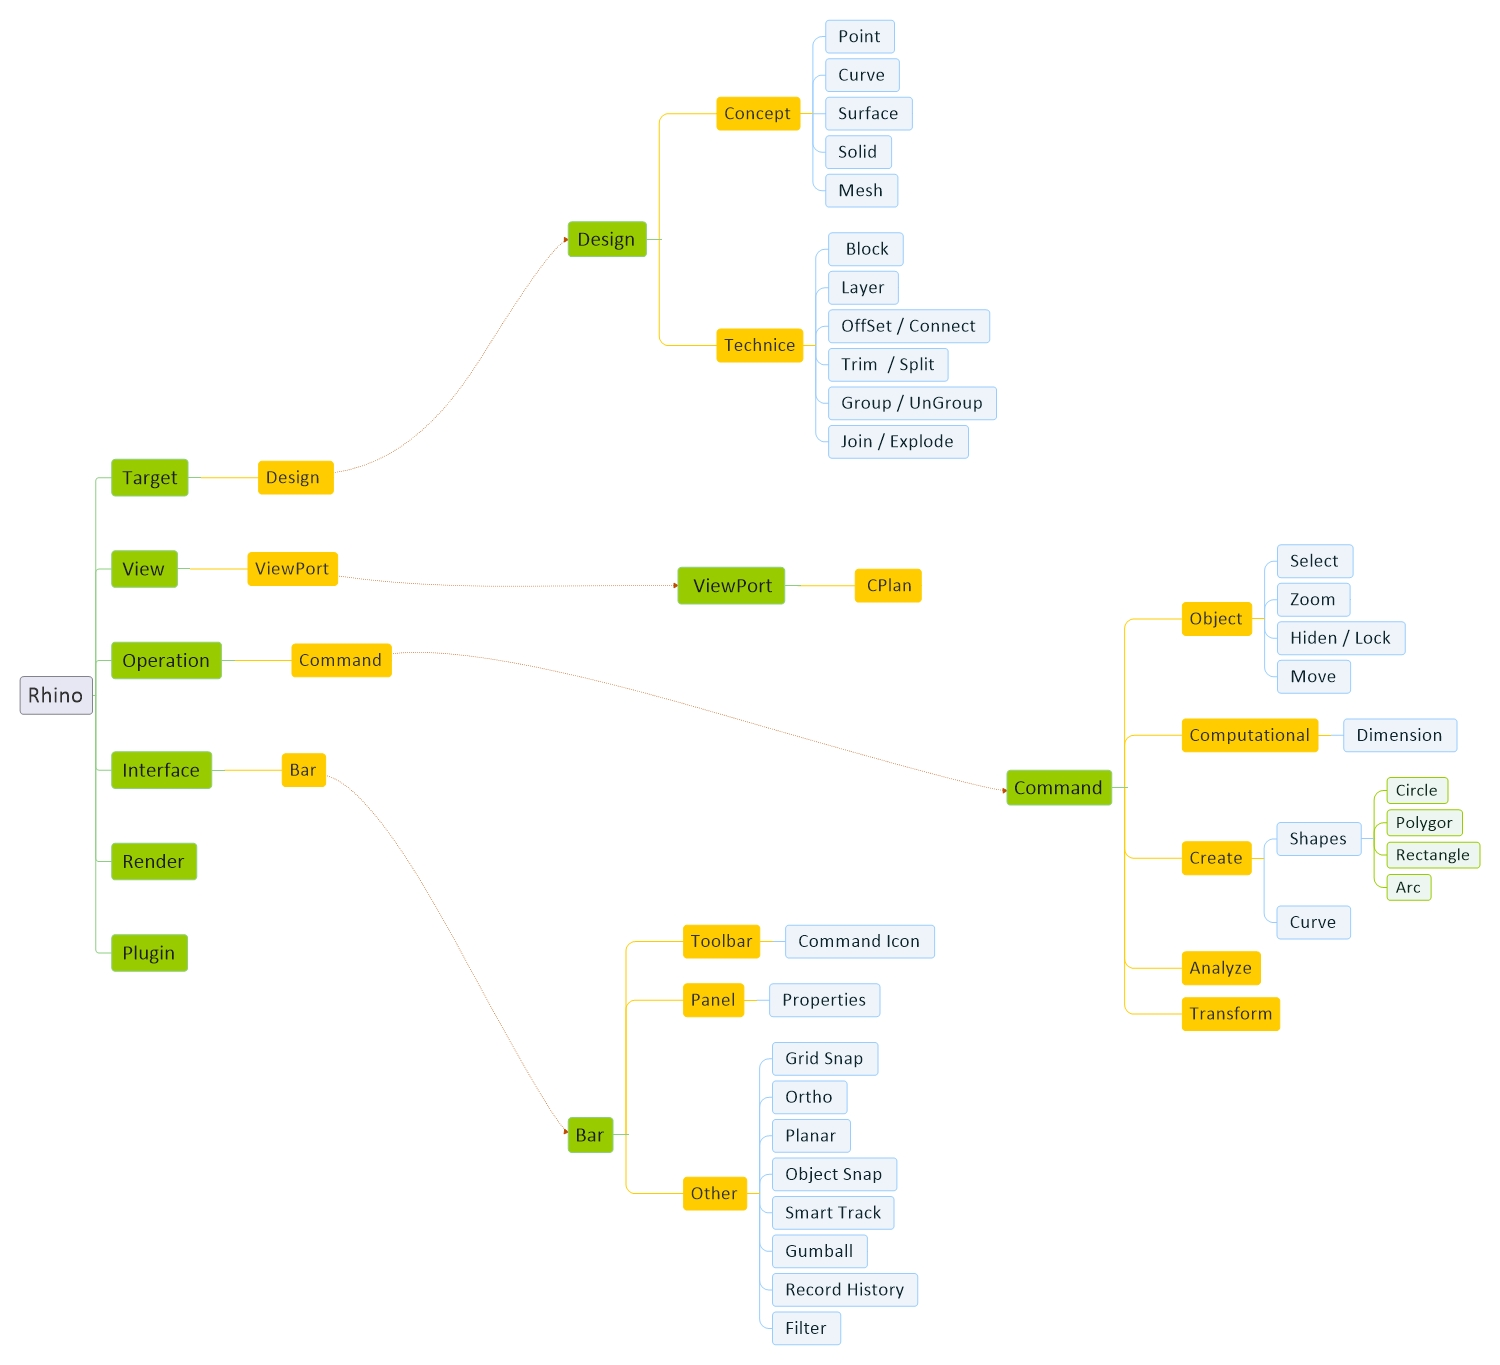
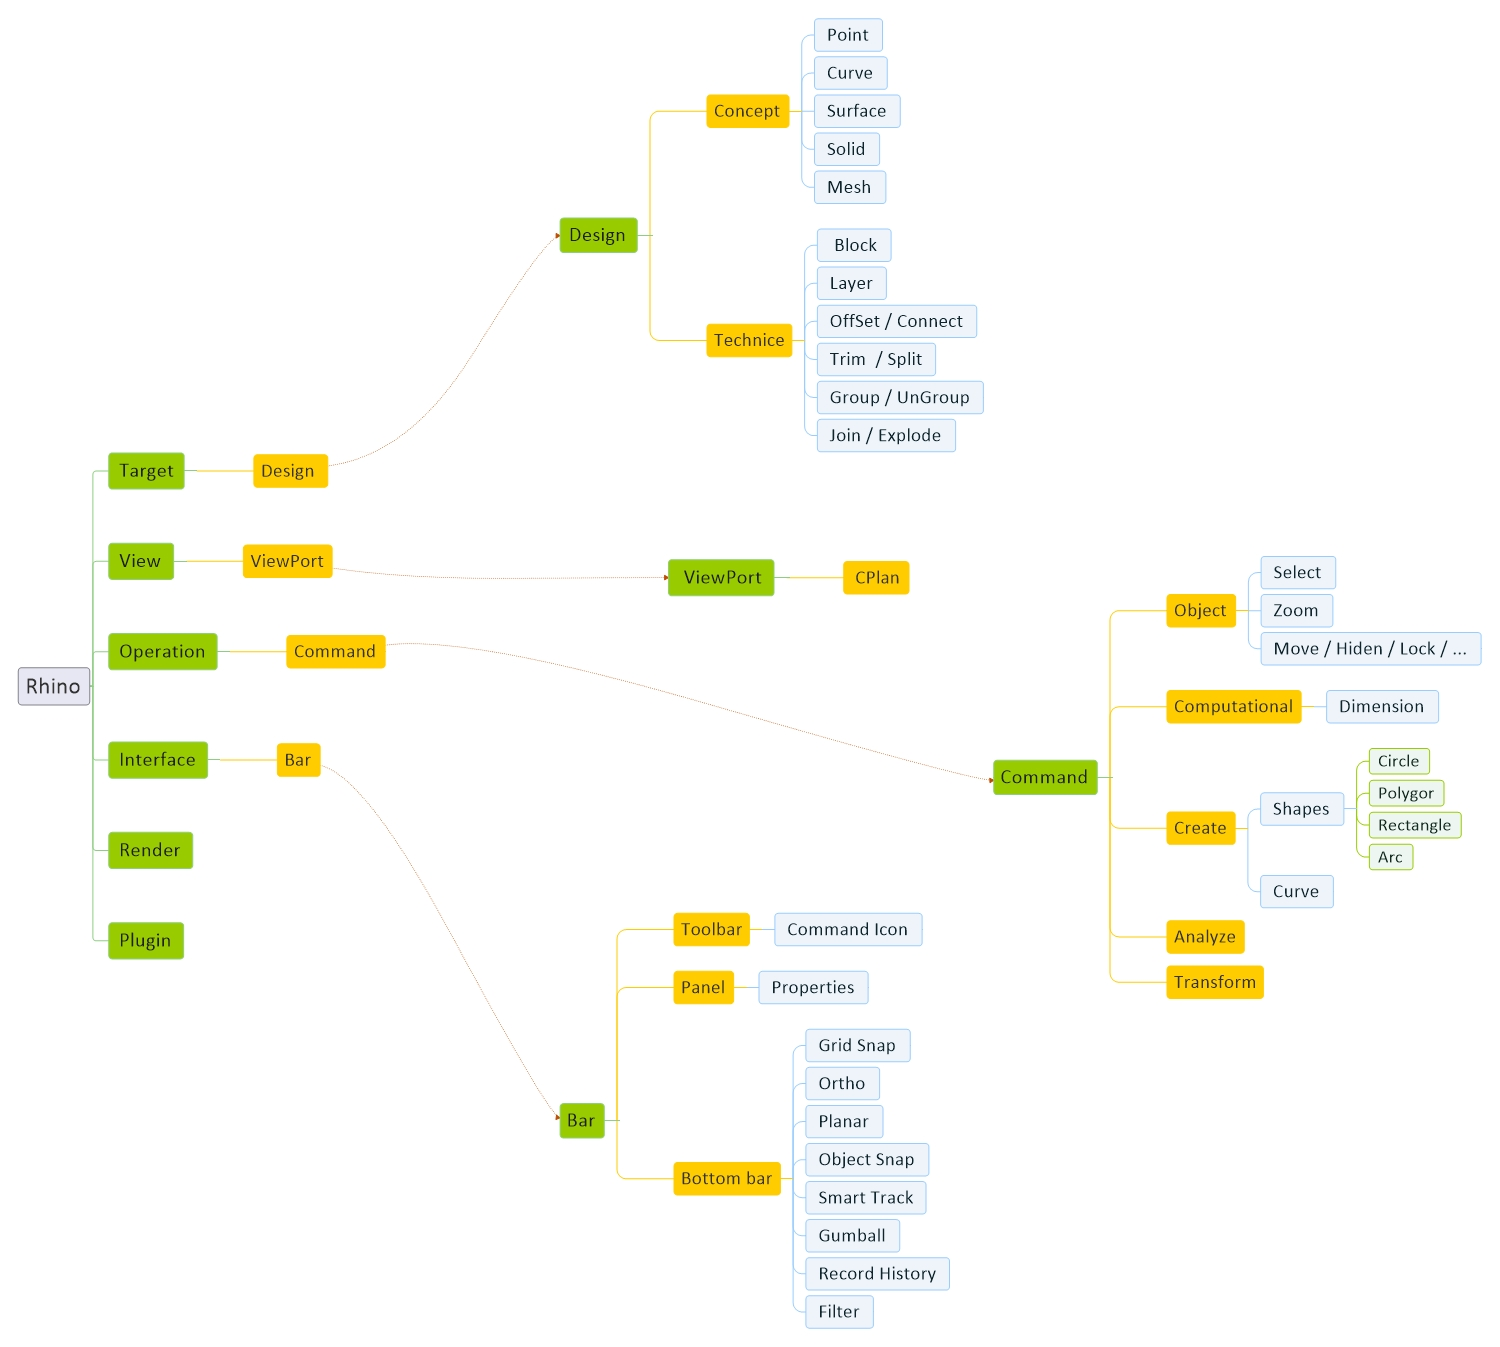
Add files via upload

diff --git a/Rhino/Rhino-Command.md b/Rhino/Rhino-Command.md
@@ -1,5 +1,5 @@
 <style>
-.md0{margin-top: 100px;}
+.md0{margin-top: 150px;}
 .md1{margin-top: 75px;}
 .md2{margin-top: 50px;}
 .md3{margin-top: 25px;}
@@ -31,7 +31,7 @@
 
 <div class="md2"></div>
 
-#### Hide / Lock
+#### Move / Hiden / Lock / ...
 <table><tbody>
 <tr align="center"><td  bgcolor="D1ECCF">Tool Tip</td><td bgcolor="D1ECCF">Command</td><td  bgcolor="D1ECCF">Explain</td></tr>
 <tr align="center"><td>1</td><td>2</td><td>3</td></tr>

diff --git a/Rhino/Rhino-Basic.md b/Rhino/Rhino-Basic.md
@@ -1,5 +1,5 @@
 <style>
-.md0{margin-top: 100px;}
+.md0{margin-top: 150px;}
 .md1{margin-top: 75px;}
 .md2{margin-top: 50px;}
 .md3{margin-top: 25px;}

diff --git a/Rhino/Rhino-Concept.md b/Rhino/Rhino-Concept.md
@@ -1,5 +1,5 @@
 <style>
-.md0{margin-top: 100px;}
+.md0{margin-top: 150px;}
 .md1{margin-top: 75px;}
 .md2{margin-top: 50px;}
 .md3{margin-top: 25px;}

diff --git a/Rhino/Rhino-Note.md b/Rhino/Rhino-Note.md
@@ -1,5 +1,5 @@
 <style>
-.md0{margin-top: 100px;}
+.md0{margin-top: 150px;}
 .md1{margin-top: 75px;}
 .md2{margin-top: 50px;}
 .md3{margin-top: 25px;}

diff --git a/Rhino/Rhino-Setting.md b/Rhino/Rhino-Setting.md
@@ -1,5 +1,5 @@
 <style>
-.md0{margin-top: 100px;}
+.md0{margin-top: 150px;}
 .md1{margin-top: 75px;}
 .md2{margin-top: 50px;}
 .md3{margin-top: 25px;}

diff --git a/Rhino/Rhino.md b/Rhino/Rhino.md
@@ -1,5 +1,5 @@
 <style>
-.md0{margin-top: 100px;}
+.md0{margin-top: 150px;}
 .md1{margin-top: 75px;}
 .md2{margin-top: 50px;}
 .md3{margin-top: 25px;}
